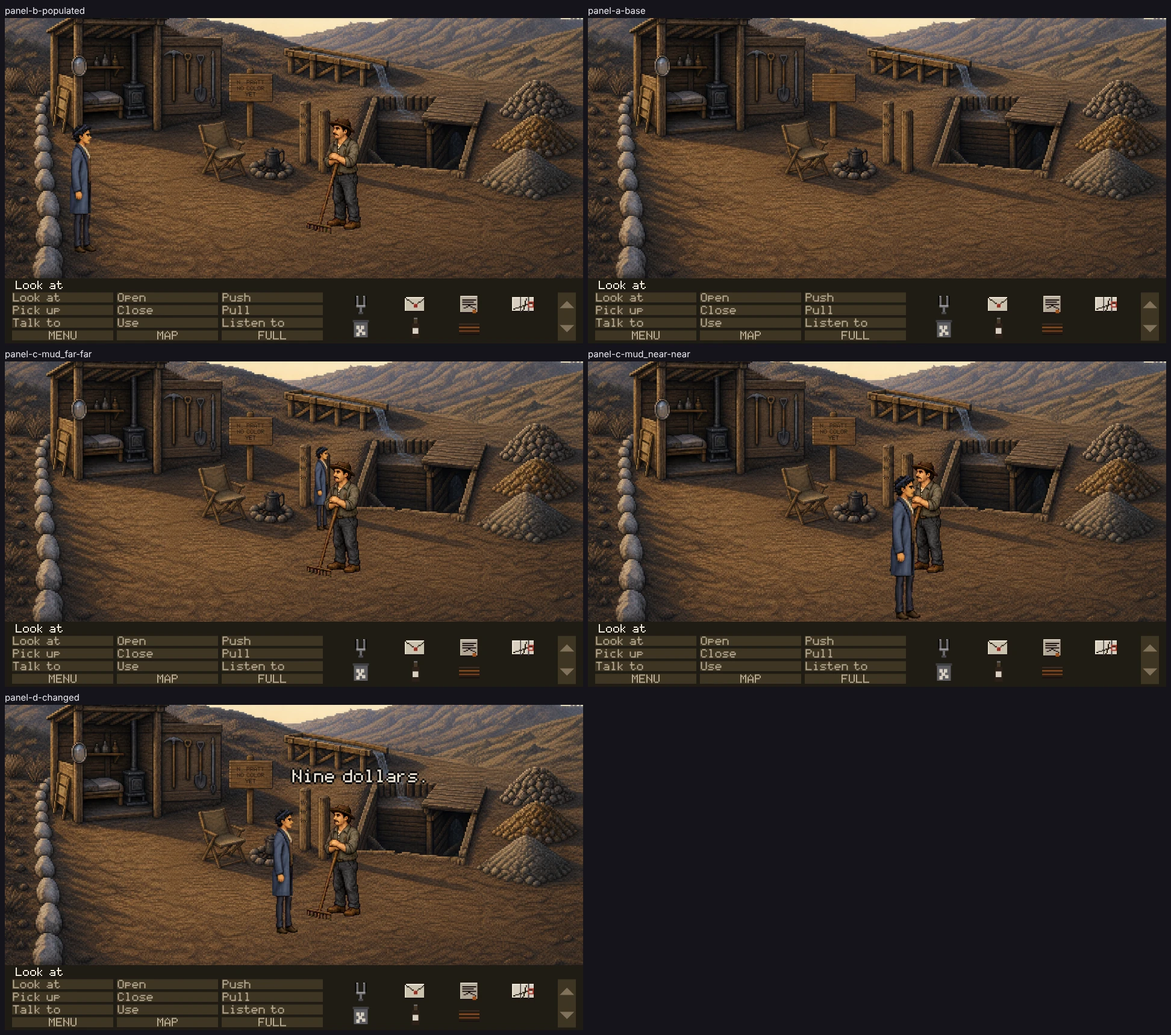
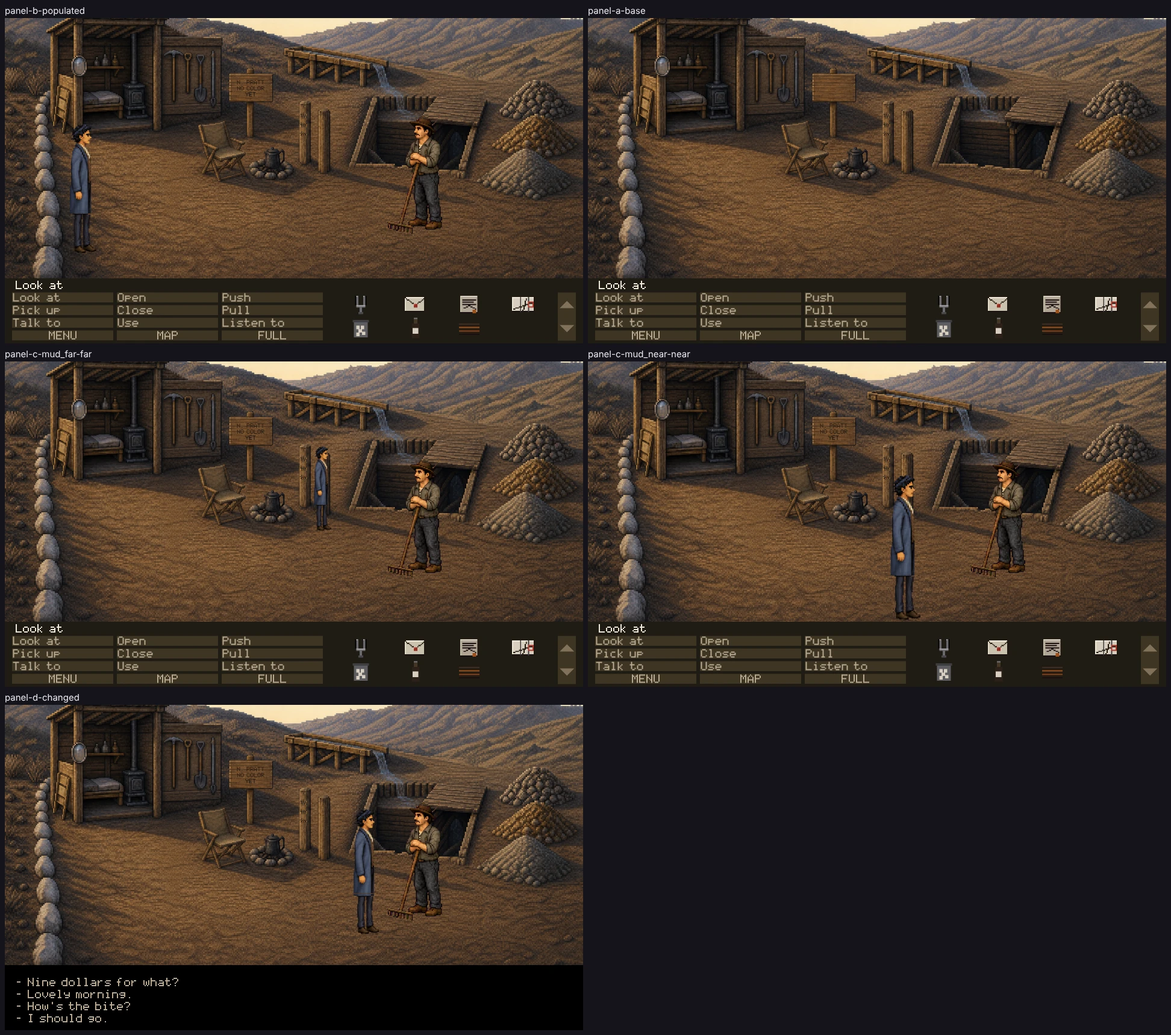
Room 25: four-panel proof on a clean tree
Claude-Session: https://claude.ai/code/session_01FXbCupzwLJAEr7fqqWYP8A

diff --git a/renders/proofs/pratts-claim/index.html b/renders/proofs/pratts-claim/index.html
@@ -5,7 +5,7 @@
  h1{font-size:17px;margin:0 0 4px}
  p.lede{color:#9a9aae;margin:0 0 8px;max-width:64em}
  .verdict{font:13px ui-monospace,monospace;padding:8px 10px;border-radius:5px;margin:12px 0;
-   background:#3a1620;border:1px solid #7a2c3c}
+   background:#12331e;border:1px solid #2c6b40}
  figure{margin:0 0 22px}
  img{width:100%;display:block;border-radius:5px;border:1px solid #2c2c38}
  figcaption{padding:7px 2px;font-size:13px}
@@ -17,7 +17,7 @@
 </style>
 <h1>pratts_claim — four-panel live-runtime proof</h1>
 <p class="lede">Every frame below is the full play area as the renderer drew it, in the running
-game, at <code>a5f09e64</code> on <code>ccr-347d40c6-71r9f9</code>.
+game, at <code>8c21e0a0</code> on <code>ccr-347d40c6-71r9f9</code>.
 No crop, isolated sprite or source image appears here: those are for diagnosing what a full
 frame has already shown.</p>
 <p class="lede"><b>These panels establish technical admissibility only.</b> Nothing here says the
@@ -29,9 +29,7 @@ art is good, in style, funny or approved. Only Tyler sets <code>visual_accepted<
     downscaled, never cropped. The full-resolution captures are reproducible test artifacts
     and are not in git; their hashes are below.</span></figcaption>
 </figure>
-<div class="verdict">FAIL — 2 failure(s):
-  gate 8B: his feet are authoritatively at y561 and the drawn silhouette bottoms out at y609 -- 48px of float. Q34 shipped 175px of exactly this.
-  panel D: after the principal change ran, not one flag, counter or inventory item differs from panel B. The change went nowhere, and this is panel B twice under another filename.</div>
+<div class="verdict">PASS — technically admissible</div>
 
   <figure>
     <img src="raw-captures-ignored/panel-b-populated.png" alt="" onerror="this.replaceWith(Object.assign(
@@ -59,18 +57,18 @@ art is good, in style, funny or approved. Only Tyler sets <code>visual_accepted<
     <img src="raw-captures-ignored/panel-d-changed.png" alt="" onerror="this.replaceWith(Object.assign(
       document.createElement('p'), { className: 'gone', textContent:
       'raw capture not committed -- regenerate with: npm run proof ' + "pratts_claim" }))">
-    <figcaption><b>PANEL D &mdash; principal changed state: PRATT_OFFERS (doc 04: 'Every single conversation, regardless of topic, ends with Pratt making an offer'). Visible consequence: TALK TO him and leave, and he names his price.</b>
+    <figcaption><b>PANEL D &mdash; principal changed state: T_PRATT_BITTEN (doc 04 PRA_A1 option 1, A5's fourth way). Visible consequence: the bite, and 'How's the bite?' among his options after it.</b>
       <span>room pratts_claim &middot; camera 0 &middot;
-        flags T_OPENING_SAID T_COACH_DEPARTED T_UNDERTAKER_NAMED T_HOB_CROSSING T_THAD_LEAVING T_HOB_SPOKEN T_HOB_GONE T_OPENING_DONE T_SEEN_MAIN_STREET T_SWINDLED T_CASE_DOWN T_CASE_TAKEN T_EGGS_ON_ACCOUNT T_TONIC_ON_ACCOUNT T_BLANKET_BORROWED &middot;
+        flags T_OPENING_SAID T_COACH_DEPARTED T_UNDERTAKER_NAMED T_HOB_CROSSING T_THAD_LEAVING T_HOB_SPOKEN T_HOB_GONE T_OPENING_DONE T_SEEN_MAIN_STREET T_SWINDLED T_CASE_DOWN T_CASE_TAKEN T_EGGS_ON_ACCOUNT T_TONIC_ON_ACCOUNT T_BLANKET_BORROWED T_PRATT_BITTEN &middot;
         inventory tuning_fork letter deed company_map eggs tonic blanket</span>
-      <span>thad @930,760 413px sprite</span>
+      <span>thad @1200,760 413px sprite</span>
     </figcaption>
   </figure>
   <figure>
     <img src="raw-captures-ignored/panel-c-mud_far-far.png" alt="">
     <figcaption><b>PANEL C &mdash; mud_far far, authored y561</b>
       <span>expected 278px &middot; runtime 278px &middot;
-        silhouette 327px, bottom y609</span>
+        silhouette 279px, bottom y561</span>
       <span>art/actors/thad-idle-right/idle-02.png</span>
     </figcaption>
   </figure>
@@ -78,7 +76,7 @@ art is good, in style, funny or approved. Only Tyler sets <code>visual_accepted<
     <img src="raw-captures-ignored/panel-c-mud_near-near.png" alt="">
     <figcaption><b>PANEL C &mdash; mud_near near, authored y857</b>
       <span>expected 479px &middot; runtime 479px &middot;
-        silhouette 499px, bottom y856</span>
-      <span>art/actors/thad-idle-right/idle-00.png</span>
+        silhouette 479px, bottom y856</span>
+      <span>art/actors/thad-idle-right/idle-01.png</span>
     </figcaption>
   </figure>
